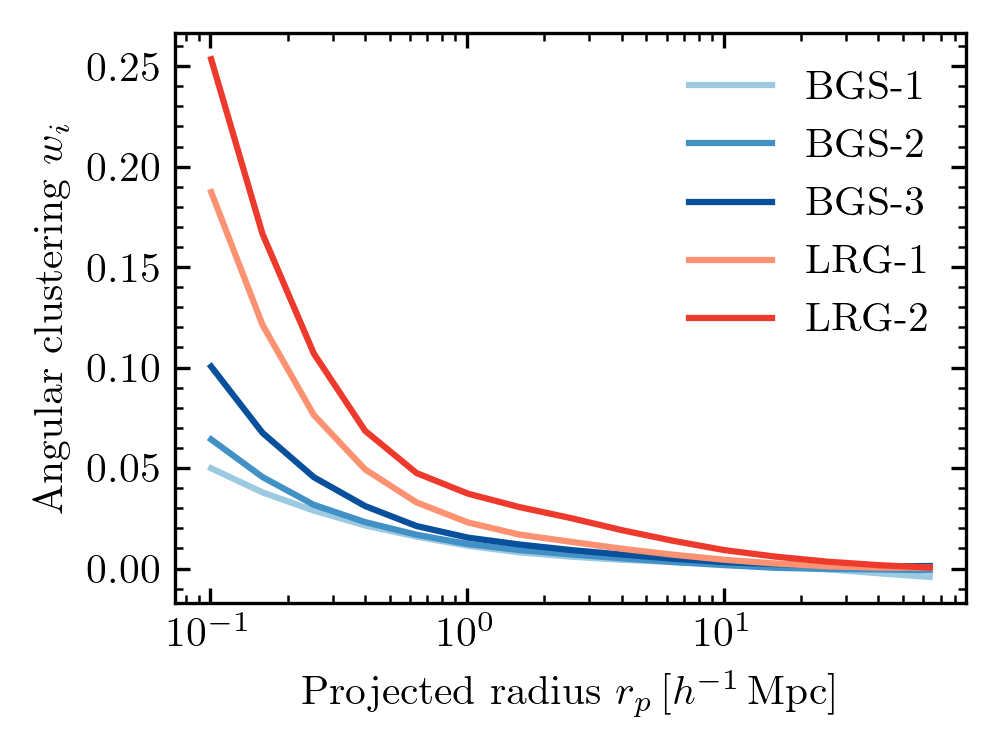
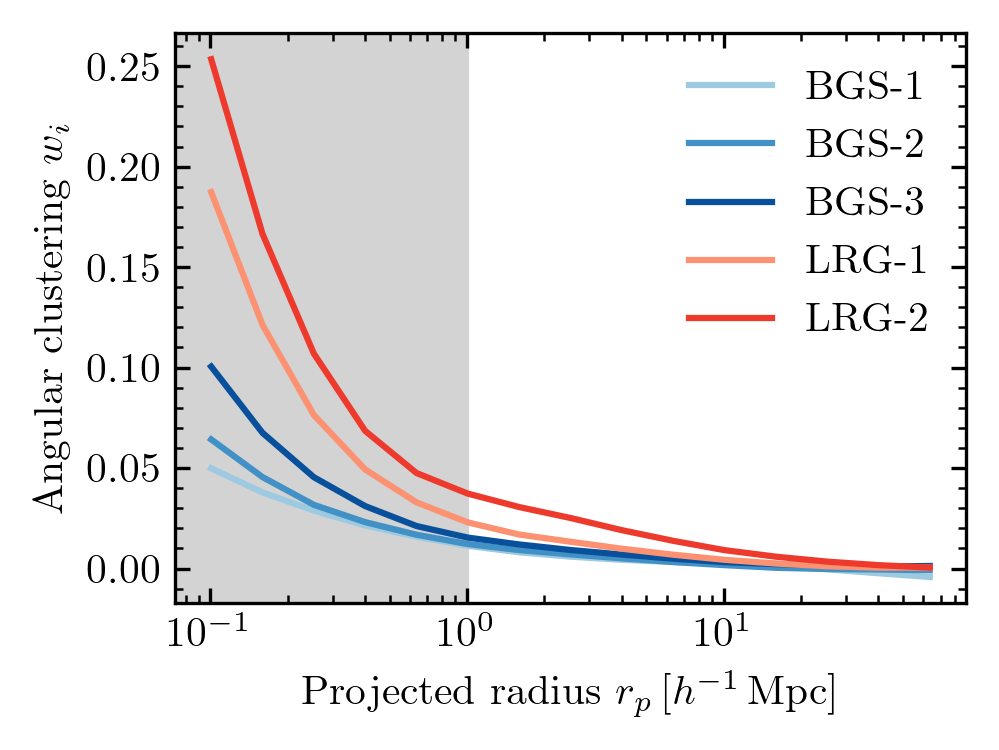
updated draft and misc/blending

Changed region(s): [[0.1552, 0.0307, 0.4965, 0.828]]

diff --git a/misc/blending/run.py b/misc/blending/run.py
@@ -49,6 +49,7 @@ for sources in ['des', 'kids']:
         plt.plot(rp, b - 1, color=color, label='{}-{}'.format(
             lenses.upper(), lens_bin + 1))
 
+    plt.axvspan(0, 1, color='lightgrey', zorder=-99)
     plt.xscale('log')
     plt.legend(loc='best', frameon=False)
     plt.xlabel(r'Projected radius $r_p \, [h^{-1} \, \mathrm{Mpc}]$')
